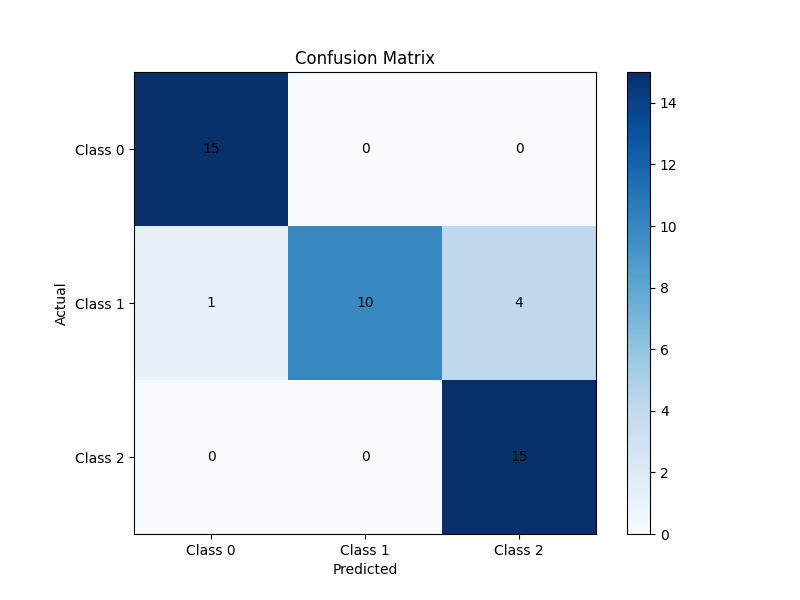
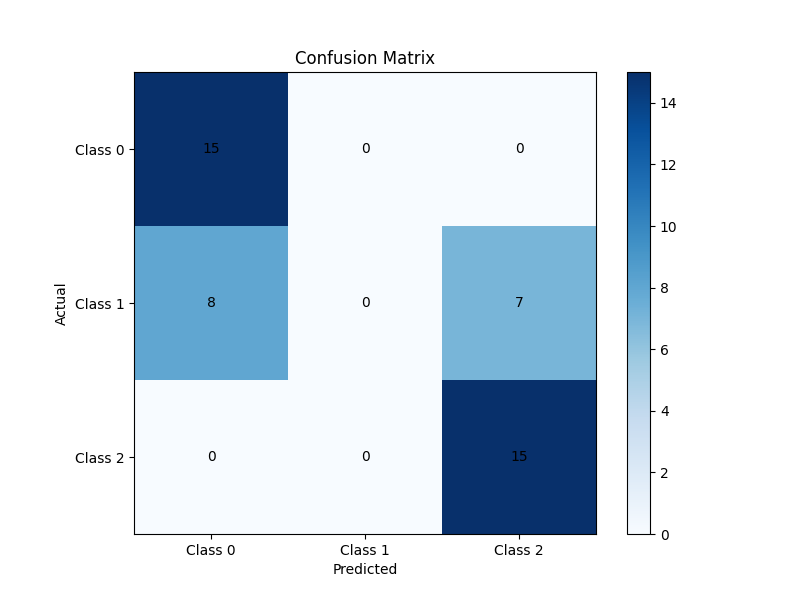
???

Changed region(s): [[0.1562, 0.36, 0.75, 0.66]]

diff --git a/Task_2/Core.py b/Task_2/Core.py
@@ -6,9 +6,11 @@ from Task_2 import evaluation, confustion_matrix
 
 x_train = y_train = x_test = y_test = []
 model_activation_function = ""
-model_weights = []
-model_acc = 0.0
-model_MSE = 100
+
+
+# model_weights = []
+# model_acc = 0.0
+# model_MSE = 100
 
 
 def preprocessing(activation_function, is_bias):
@@ -42,39 +44,72 @@ def predict(xs):
     return outputList
 
 
+# def fit(epochs, eta, bias, layers, neurons_list, progress_callback):
+#     global model_acc, model_weights, model_MSE
+#     model_acc = 0
+#     model_MSE = 0
+#     model_weights = []
+#     y_predict = []
+#     for curr_uw in range(1):
+#         Kernel.generateWeights(neurons_list)
+#         y_predict_t = []
+#         mse = 0
+#         updatedWeights = []
+#         for epoch in range(epochs):
+#             y_predict_t = []
+#             mse = 0
+#             for xs, ys_act in zip(x_train, y_train):
+#                 ys, weights = Kernel.feed_forward(xs, model_activation_function)
+#                 error_signal, error_sum = Kernel.back_propagation(ys, ys_act, weights, model_activation_function)
+#                 mse += error_sum
+#                 y_predict_t.append(convert_to_binary_target_inline(ys[-1]))
+#                 network_xs = ys[:(len(ys) - 1)]
+#                 for i in range(len(network_xs)):
+#                     network_xs[i].insert(0, bias)
+#                 network_xs.insert(0, xs)
+#                 # print_list_of_lists(network_xs, 'network_xs')
+#                 updatedWeights = Kernel.updateWeights(error_signal, eta, network_xs)
+#             mse = mse / len(x_train)
+#             progress_callback(epoch + 1, epochs)  # Emit progress update
+#         print(f'MSE-{curr_uw}: {mse}')
+#         acc = evaluation.evaluation_acc(y_train, y_predict_t)
+#         # conf_mat = confustion_matrix.ConfusionMatrix(y_train, y_predict_t)
+#         if acc >= model_acc and mse <= model_MSE:
+#             model_weights = updatedWeights
+#             model_acc = acc
+#             model_MSE = mse
+#     print(f'Final MSE: {model_MSE}')
+#     print(f'Final Acc: {model_acc}')
+#     print("=" * 500)
+#     for xt in x_test:
+#         y_predict.append(predict(xt))
+#     _ = evaluation.evaluation_acc(y_test, y_predict)
+#     _ = confustion_matrix.ConfusionMatrix(y_test, y_predict)
+
+
 def fit(epochs, eta, bias, layers, neurons_list, progress_callback):
-    global model_acc, model_weights, model_MSE
     y_predict = []
-    for curr_uw in range(1):
-        Kernel.generateWeights(neurons_list)
-        y_predict_t = []
+    y_predict_t = []
+    mse = 0
+    for epoch in range(epochs):
         mse = 0
-        updatedWeights = []
-        for epoch in range(epochs):
-            y_predict_t = []
-            mse = 0
-            for xs, ys_act in zip(x_train, y_train):
-                ys, weights = Kernel.feed_forward(xs, model_activation_function)
-                error_signal, error_sum = Kernel.back_propagation(ys, ys_act, weights, model_activation_function)
-                mse += error_sum
-                y_predict_t.append(convert_to_binary_target_inline(ys[-1]))
-                network_xs = ys[:(len(ys) - 1)]
-                for i in range(len(network_xs)):
-                    network_xs[i].insert(0, bias)
-                network_xs.insert(0, xs)
-                # print_list_of_lists(network_xs, 'network_xs')
-                updatedWeights = Kernel.updateWeights(error_signal, eta, network_xs)
-            mse = mse / len(x_train)
-            progress_callback(epoch + 1, epochs)  # Emit progress update
-        print(f'MSE-{curr_uw}: {mse}')
-        acc = evaluation.evaluation_acc(y_train, y_predict_t)
-        # conf_mat = confustion_matrix.ConfusionMatrix(y_train, y_predict_t)
-        if acc >= model_acc and mse <= model_MSE:
-            model_weights = updatedWeights
-            model_acc = acc
-            model_MSE = mse
-    print(f'Final MSE: {model_MSE}')
-    print(f'Final Acc: {model_acc}')
+        Kernel.generateWeights(neurons_list)
+        for xs, ys_act in zip(x_train, y_train):
+            ys, weights = Kernel.feed_forward(xs, model_activation_function)
+            error_signal, error_sum = Kernel.back_propagation(ys, ys_act, weights, model_activation_function)
+            mse += error_sum
+            y_predict_t.append(convert_to_binary_target_inline(ys[-1]))
+            network_xs = ys[:(len(ys) - 1)]
+            for i in range(len(network_xs)):
+                network_xs[i].insert(0, bias)
+            network_xs.insert(0, xs)
+            # print_list_of_lists(network_xs, 'network_xs')
+            updatedWeights = Kernel.updateWeights(error_signal, eta, network_xs)
+        mse = mse / len(x_train)
+        progress_callback(epoch + 1, epochs)  # Emit progress update
+    print(f'MSE: {mse}')
+    _ = evaluation.evaluation_acc(y_train, y_predict_t)
+    _ = confustion_matrix.ConfusionMatrix(y_train, y_predict_t)
     print("=" * 500)
     for xt in x_test:
         y_predict.append(predict(xt))

diff --git a/Task_2/Kernel.py b/Task_2/Kernel.py
@@ -13,7 +13,7 @@ def label_lists(list_of_lists):
 
 def print_list_of_lists(list_of_lists, its_name):
     num, labeled = label_lists(list_of_lists)
-    print("="*400)
+    print("=" * 400)
     print(f'Number of lists ({its_name}): {num}')
     for label, lst in labeled.items():
         print(f'{its_name} - {label}: {lst}')
@@ -24,11 +24,6 @@ def sigmoid(x):
     return 1 / (1 + np.exp(-x))
 
 
-# def hyper_tangent(x):
-#     print(x)
-#     return (1 - np.exp(-np.clip(x, -2 * 370, 2 * 370))) / (1 + np.exp(-np.clip(x, -2 * 370, 2 * 370)))
-
-#
 def hyper_tangent(x):
     # print(x)
     return np.tanh(x)
@@ -87,20 +82,13 @@ def back_propagation(outputs, actual, weights, act_func):
     sigmas = []
     sigma_y = []
     # print(f"({outputs[-1]} , {actual})")
-    """
-    outputs[-1] : [1, -1, -1] or [-1, 1, -1] or [-1, -1, 1]
-    actual      : [1, -1, -1] or [-1, 1, -1] or [-1, -1, 1]
-    [1, -1, -1]
-    [-1, 1, -1]
-    2 * -1 * 2 -> -4
-    -2 * 1 * 0 -> 0
-    
-    """
+
     # Output Layer
     error_sum = 0
     for i, y in enumerate(outputs[-1]):
         error_sum += (actual[i] - y) * (actual[i] - y)
-        current_sigma = ((actual[i] - y) * y * (1 - y)) if act_func == 'Sigmoid' else ((actual[i] - y) * (1 - y) * (1 + y))
+        current_sigma = ((actual[i] - y) * y * (1 - y)) if act_func == 'Sigmoid' else (
+                    (actual[i] - y) * (1 - y) * (1 + y))
         sigma_y.append(current_sigma)
     sigmas.insert(0, sigma_y)
 
@@ -111,7 +99,8 @@ def back_propagation(outputs, actual, weights, act_func):
             summation = 0
             for j, w in enumerate(weights[layer + 1]):
                 summation += w[i] * sigmas[0][j]
-            current_sigma_hidden = (y * (1 - y) * summation) if act_func == 'Sigmoid' else ((1 + y) * (1 - y) * summation)
+            current_sigma_hidden = (y * (1 - y) * summation) if act_func == 'Sigmoid' else (
+                        (1 + y) * (1 - y) * summation)
             current_sigma.append(current_sigma_hidden)
         sigmas.insert(0, current_sigma)
 
@@ -129,11 +118,11 @@ def generateWeights(neurons_of_each_layer):
         row_list = []
         for sublist in range(number_neuron):
             # lst = np.random.randn(input_size + 1) * np.sqrt(1. / (input_size + 1))
-            lst = [random.random() * 0.1 for _ in range(input_size + 1)]
-            row_list.append(lst)
-            # lst = [random.random() for _ in range(input_size + 1)]
-            # rounded_lst = [round(num, 3) for num in lst]
-            # row_list.append(rounded_lst)
+            # lst = [random.random() * 0.1 for _ in range(input_size + 1)]
+            lst = [random.random() for _ in range(input_size + 1)]
+            # row_list.append(lst)
+            rounded_lst = [round(num, 3) for num in lst]
+            row_list.append(rounded_lst)
         input_size = number_neuron
 
         AllWeights.append(row_list)
@@ -150,4 +139,3 @@ def updateWeights(errors, learningRate, Xs):
                                                        + learningRate * neuron_error * Xs[layer][i])
     # print_list_of_lists(generated_weights, 'Weights')
     return generated_weights
-

diff --git a/Task_2/Preprocessing.py b/Task_2/Preprocessing.py
@@ -5,7 +5,7 @@ from tkinter import *
 import numpy as np
 import pandas as pd
 from sklearn.model_selection import train_test_split
-from sklearn.preprocessing import LabelEncoder
+from sklearn.preprocessing import LabelEncoder, StandardScaler
 from sklearn.preprocessing import MinMaxScaler
 
 mean = []
@@ -30,7 +30,8 @@ def feature_normalizing_fit(dataset, activation_function):
     global scaler_models
     scaler_models = []
     for column in dataset.columns:
-        scaler_obj = MinMaxScaler() if activation_function == 'Sigmoid' else MinMaxScaler(feature_range=(-1, 1))
+        # scaler_obj = MinMaxScaler() if activation_function == 'Sigmoid' else MinMaxScaler(feature_range=(-1, 1))
+        scaler_obj = StandardScaler()
         scaler_obj.fit(dataset[[column]])
         scaler_models.append(scaler_obj)
 
